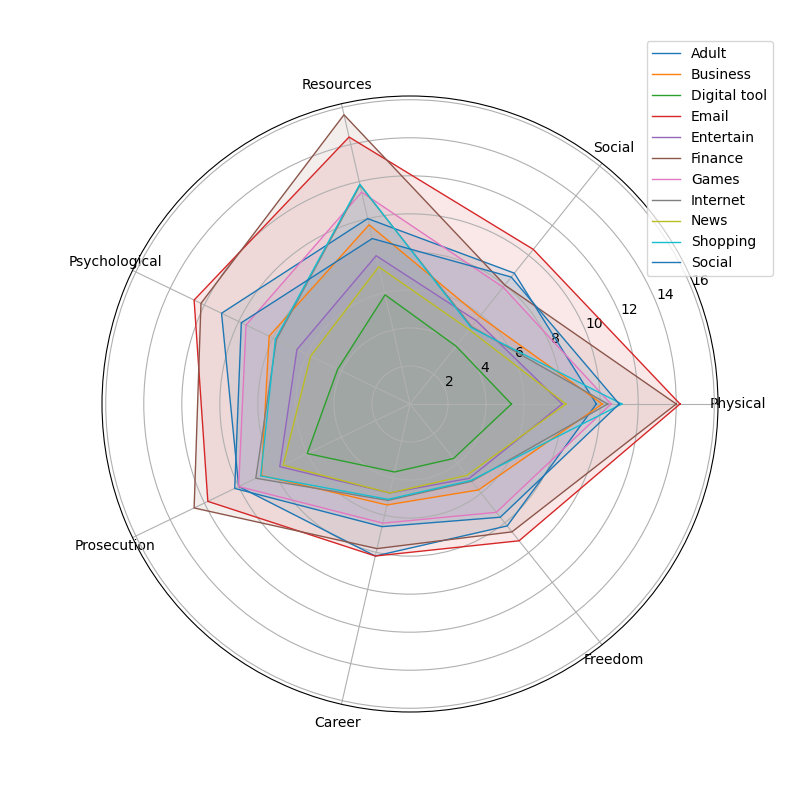
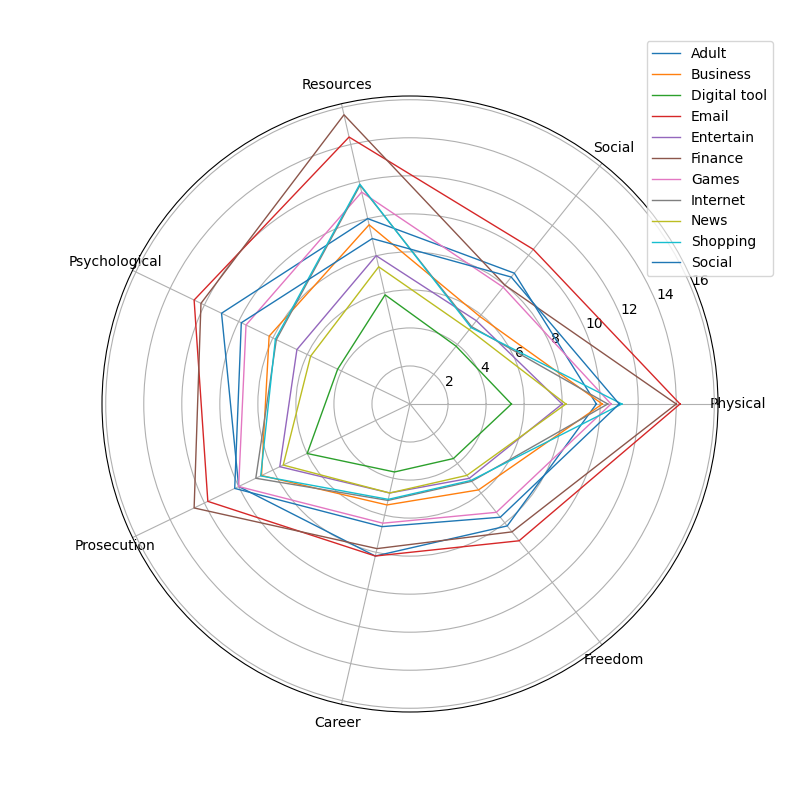
services analisis little update

Changed region(s): [[0.25, 0.1562, 0.8438, 0.6875]]

diff --git a/plots.py b/plots.py
@@ -646,7 +646,7 @@ def plot_radar_risk_dimensions(categories_risk):
         values += values[:1]  # Complete the loop by adding the first value at the end
         label = categories_risk['Type'].loc[index]  # Get the corresponding label from 'Type'
         ax.plot(angles, values, linewidth=1, linestyle='solid', label=label)
-        ax.fill(angles, values, alpha=0.1)  # Fill area under the line
+        # ax.fill(angles, values, alpha=0.1)  # Fill area under the line
 
     # Add labels to the axes
     plt.xticks(angles[:-1], categories)
